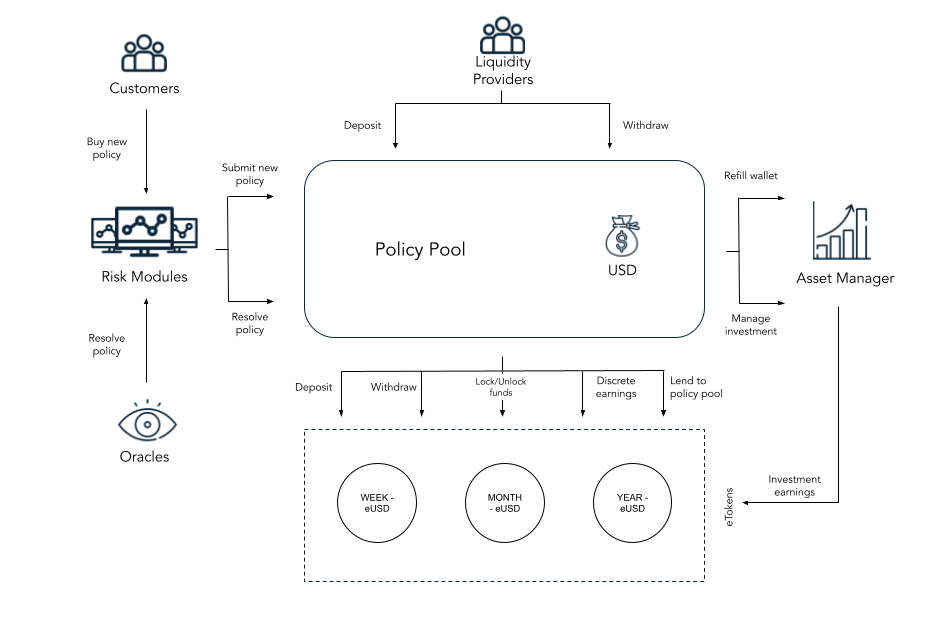
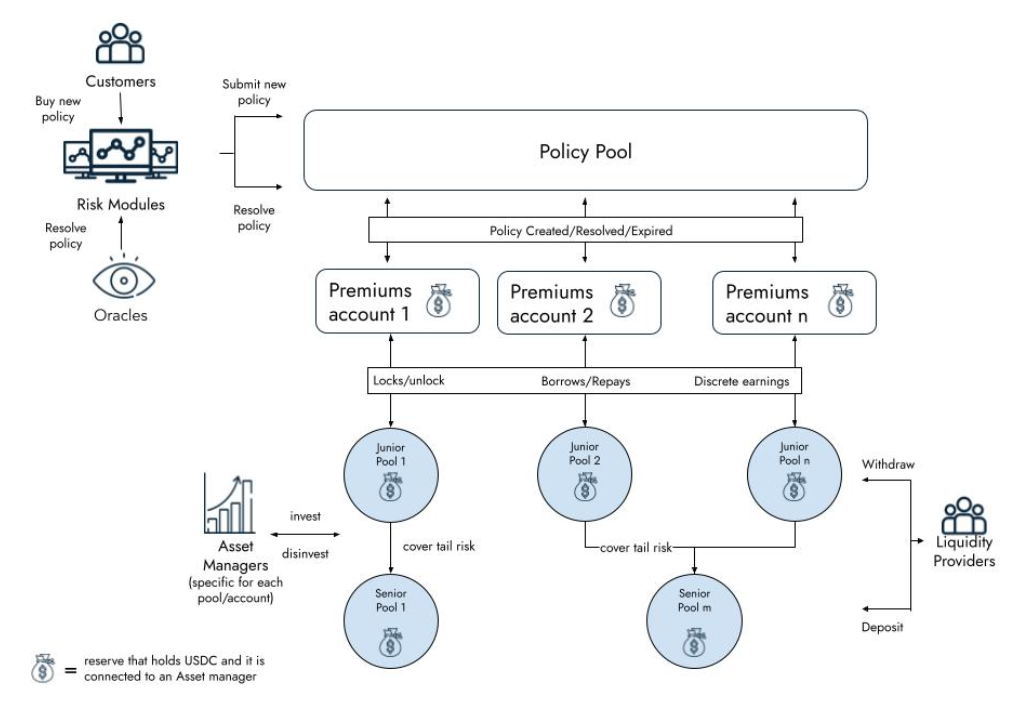
Fix README

diff --git a/README.md b/README.md
@@ -2,14 +2,19 @@
 
 Ensuro is a decentralized protocol that manages the capital to support insurance products. 
 
-It allows liquidity providers (LPs) to deposit capital (using stable coins) that will fulfill solvency capital requirements of underwritten policies. This capital will be deposited in different pools (*eTokens*) according to provider's cashback period preferences. The capital will be locked for the duration of policies and will report profits to the LPs in the form of continous interest.
+It allows liquidity providers (LPs) to deposit capital (using stable coins) that will fulfill solvency capital requirements of underwritten policies. This capital will be deposited in different pools (*eTokens*) that are linked to different risks. The capital will be locked for the duration of policies and will report profits to the LPs in the form of continous interest.
 
 On the policy side, the policies are injected into the protocol by *Risk Modules*. Each risk module represent an Ensuro partner and a specific insurance product and is implemented with a smart contract (inherited from `RiskModule`). Each risk module has two responsabilities: pricing and policy resolution. Also, the RiskModule smart contract stores several parameters of the risk module such as Ensuro and Risk Module fees, capital allocation limits, etc.
+
+Each policy sold and active it's a *risk* or potential loss, a random variable that goes from 0 (no losses) to the maximum payout defined in the policy. The solvency capital to cover these risks comes from two sources:
+- **pure premiums**: the part of the premium that's equal to the estimated mean of the risk random variable (expected losses), paid by the policy holder.
+- **scr**: the rest of the solvency capital (unexpected losses), required to be able to cover the risks with a given *confidence level*, is locked from the *eTokens*.
 
 ![Architecture Diagram](Architecture.png "Architecture Diagram")
 
 
 ## Contracts
+
 <dl>
 <dt>PolicyPool</dt>
 <dd>This is the main contract that keeps track of active policies and manages the assets. It has the methods for LP to deposit/withdraw. The PolicyPool is connected to a set of eTokens and RiskModules.</dd>
@@ -22,7 +27,7 @@ On the policy side, the policies are injected into the protocol by *Risk Modules
 
 <dl>
 <dt>PolicyPoolConfig</dt>
-<dd>This contract holds some configurable components of the protocol such as treasury address, InsolvencyHook, AssetManager and the installed risk modules. Also this module holds the access control permissions for the governance actions.</dd>
+<dd>This contract holds some configurable components of the protocol such as treasury address and the installed risk modules. Also this module holds the access control permissions for the governance actions.</dd>
 </dl>
 
 <dl>
@@ -33,21 +38,16 @@ On the policy side, the policies are injected into the protocol by *Risk Modules
 <dl>
 <dt>RiskModule</dt>
 <dd>This is a base contract that needs to be reimplemented with the specific logic related with custom policy parameters, validation of the received price and with different strategies for policy resolution (e.g. using oracles). This is the contract that must be called by a customer for creating a new policy that, after doing validations and storing parameters needed for resolution, will submit the new policy to the PolicyPool.</dd>
-  </dl>
+</dl>
 
 <dl>
-<dt>AssetManager</dt>
-<dd>This component of the protocol is the one responsible for managing the assets and getting additional interest reinvesting the assets. Different implementations of the asset management can be done, depeding on the strategy to be applied. In the base class, has different liquidity parameters that affect how much liquidity to keep in the PolicyPool to avoid continous invest/deinvest operations.</dd>
+<dt>PremiumsAccount</dt>
+<dd>The risk modules are grouped in *premiums accounts* that keep track of the pure premiums (active and earned) their policies. The responsability of these contracts is keeping track of the premiums and releasing the payouts. When premiums are exhausted (losses more than expected), they borrow money from the *eTokens* to cover the payouts. This money will be repaid when/if later the premiums account has surplus (losses less than expected).</dd>
 </dl>
 
 <dl>
 <dt>LPWhitelist</dt>
 <dd>This is an optional component. If present it controls which Liquidity Providers can deposit or transfer their <i>eTokens</i>.</dd>
-</dl>
-
-<dl>
-<dt>InsolvencyHook</dt>
-<dd>This component of the protocol is the one responsible for handling situations where there is not enough money in the protocol to cover losses (something unlikely but possible, since we aren't fully collaterized). Possible implementations of this are trigger of reinsurance (excess loss) policy from another company, sell governance tokens or take a loan.</dd>
 </dl>
 
 <dl>
